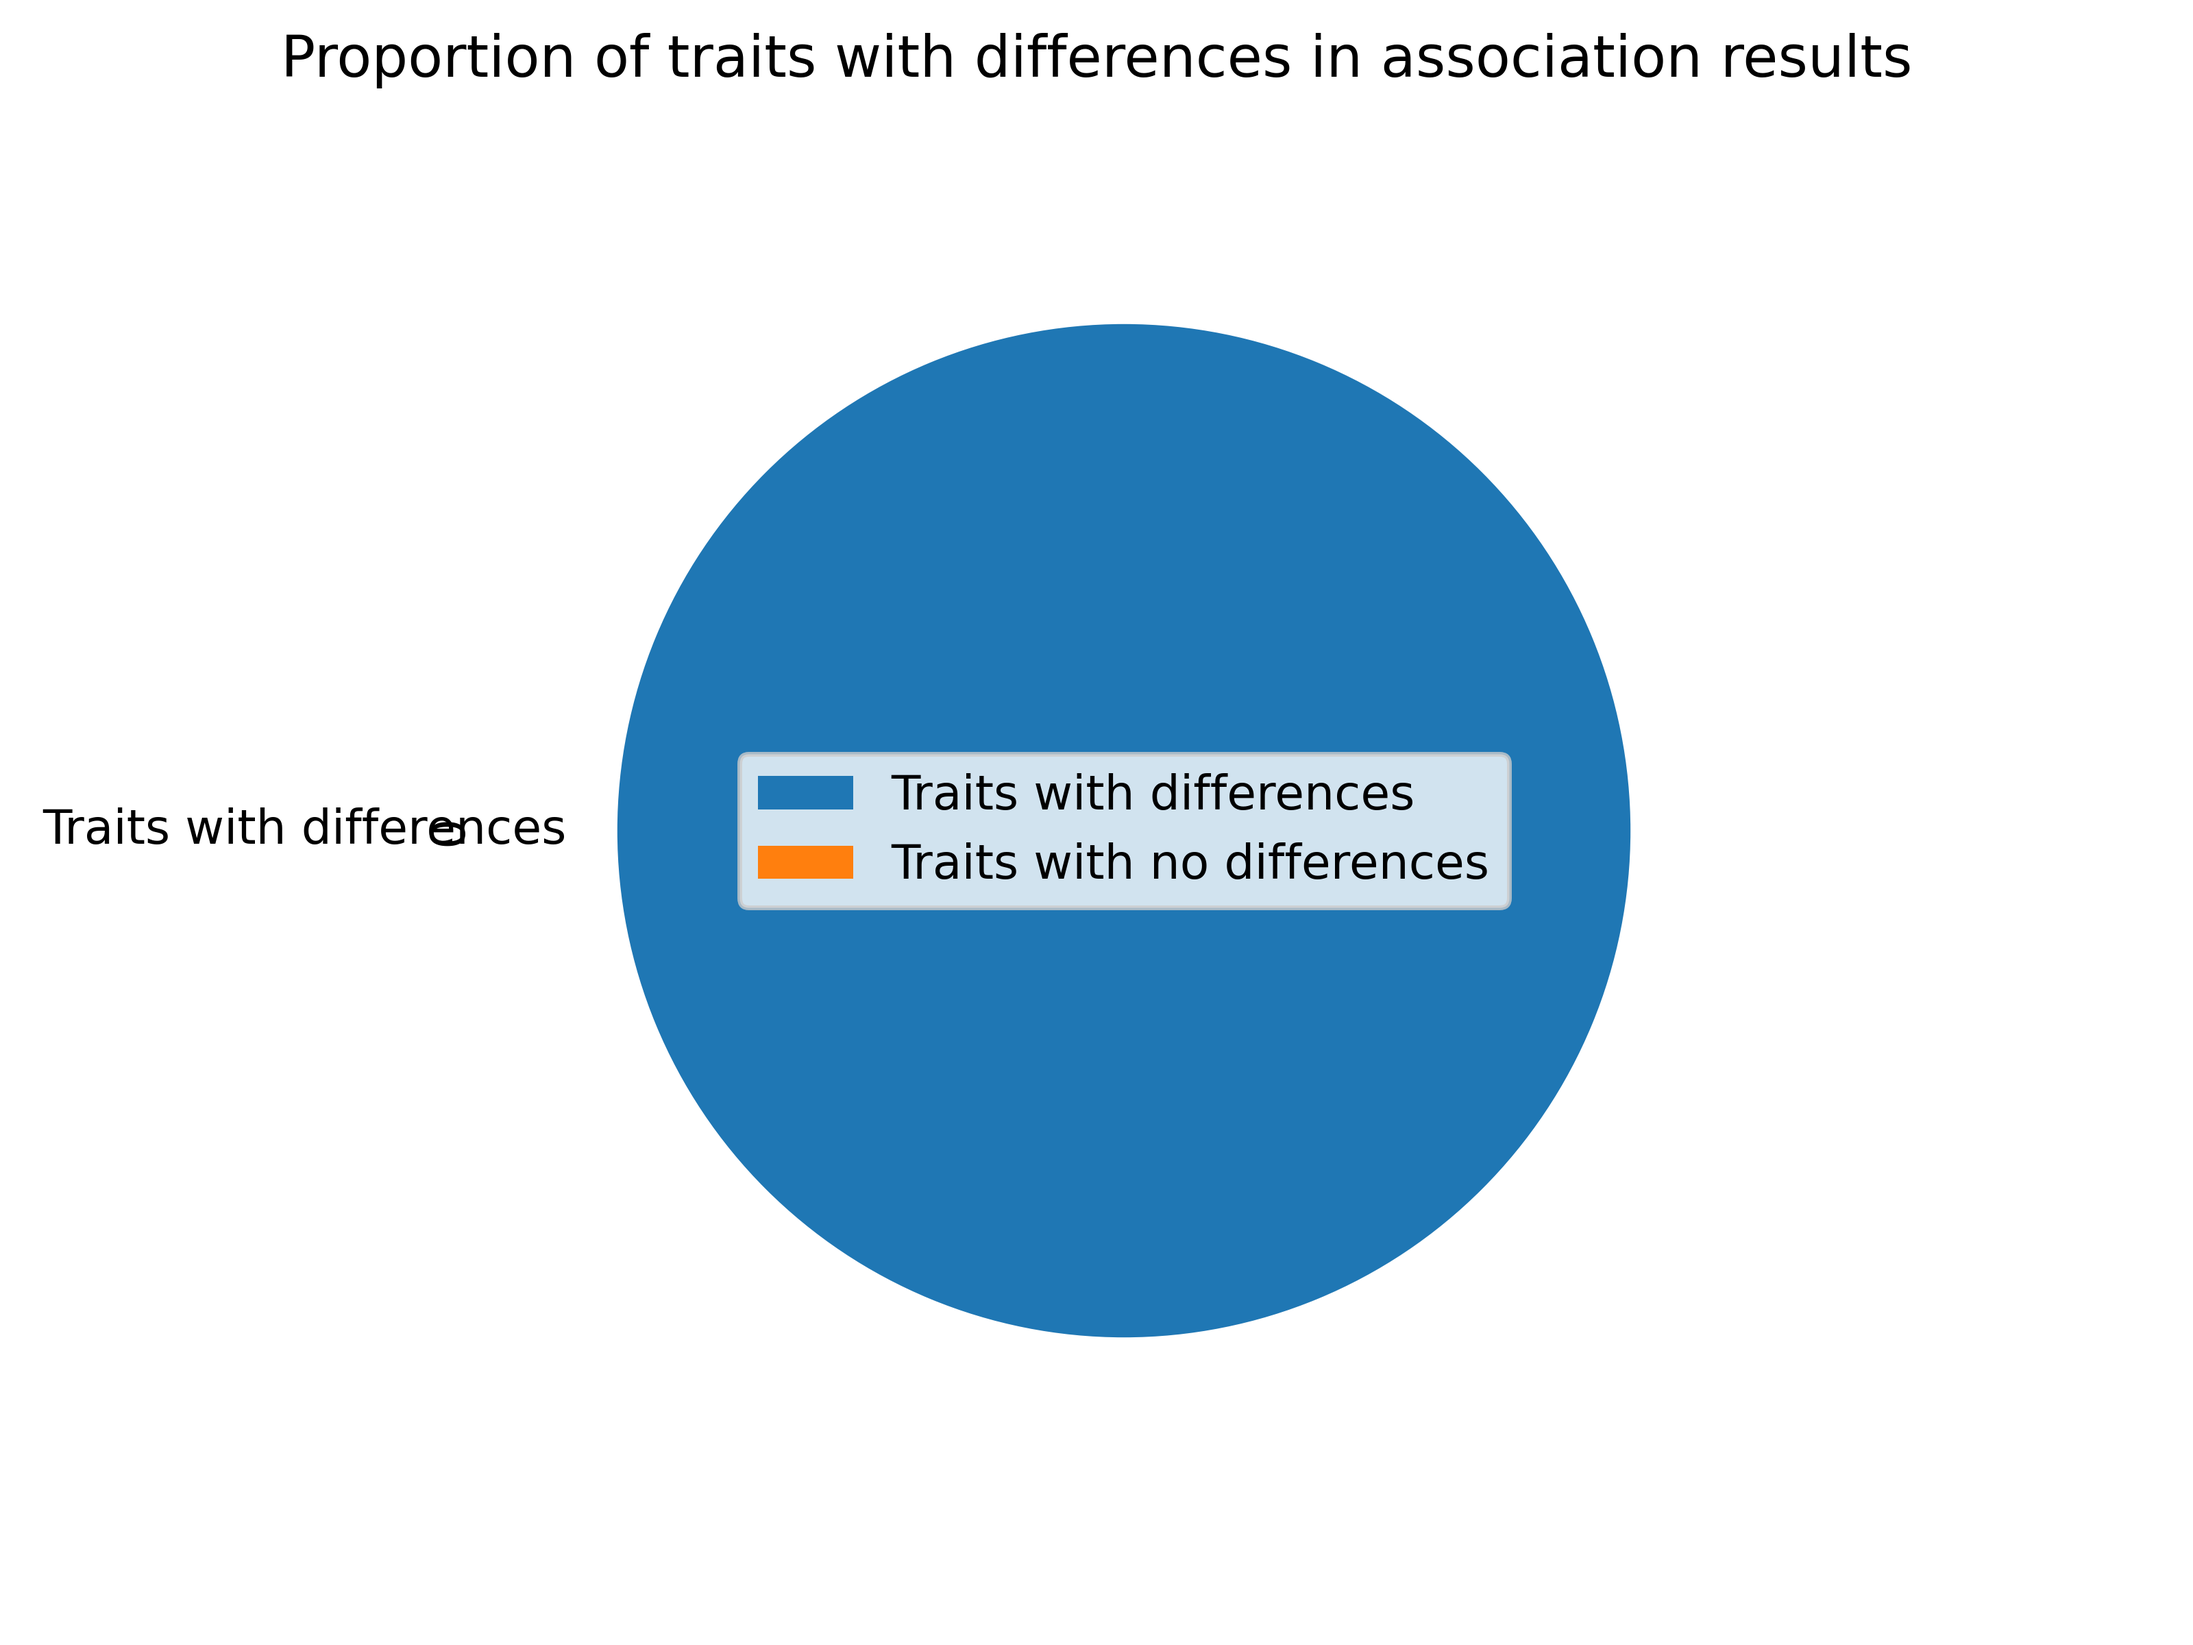
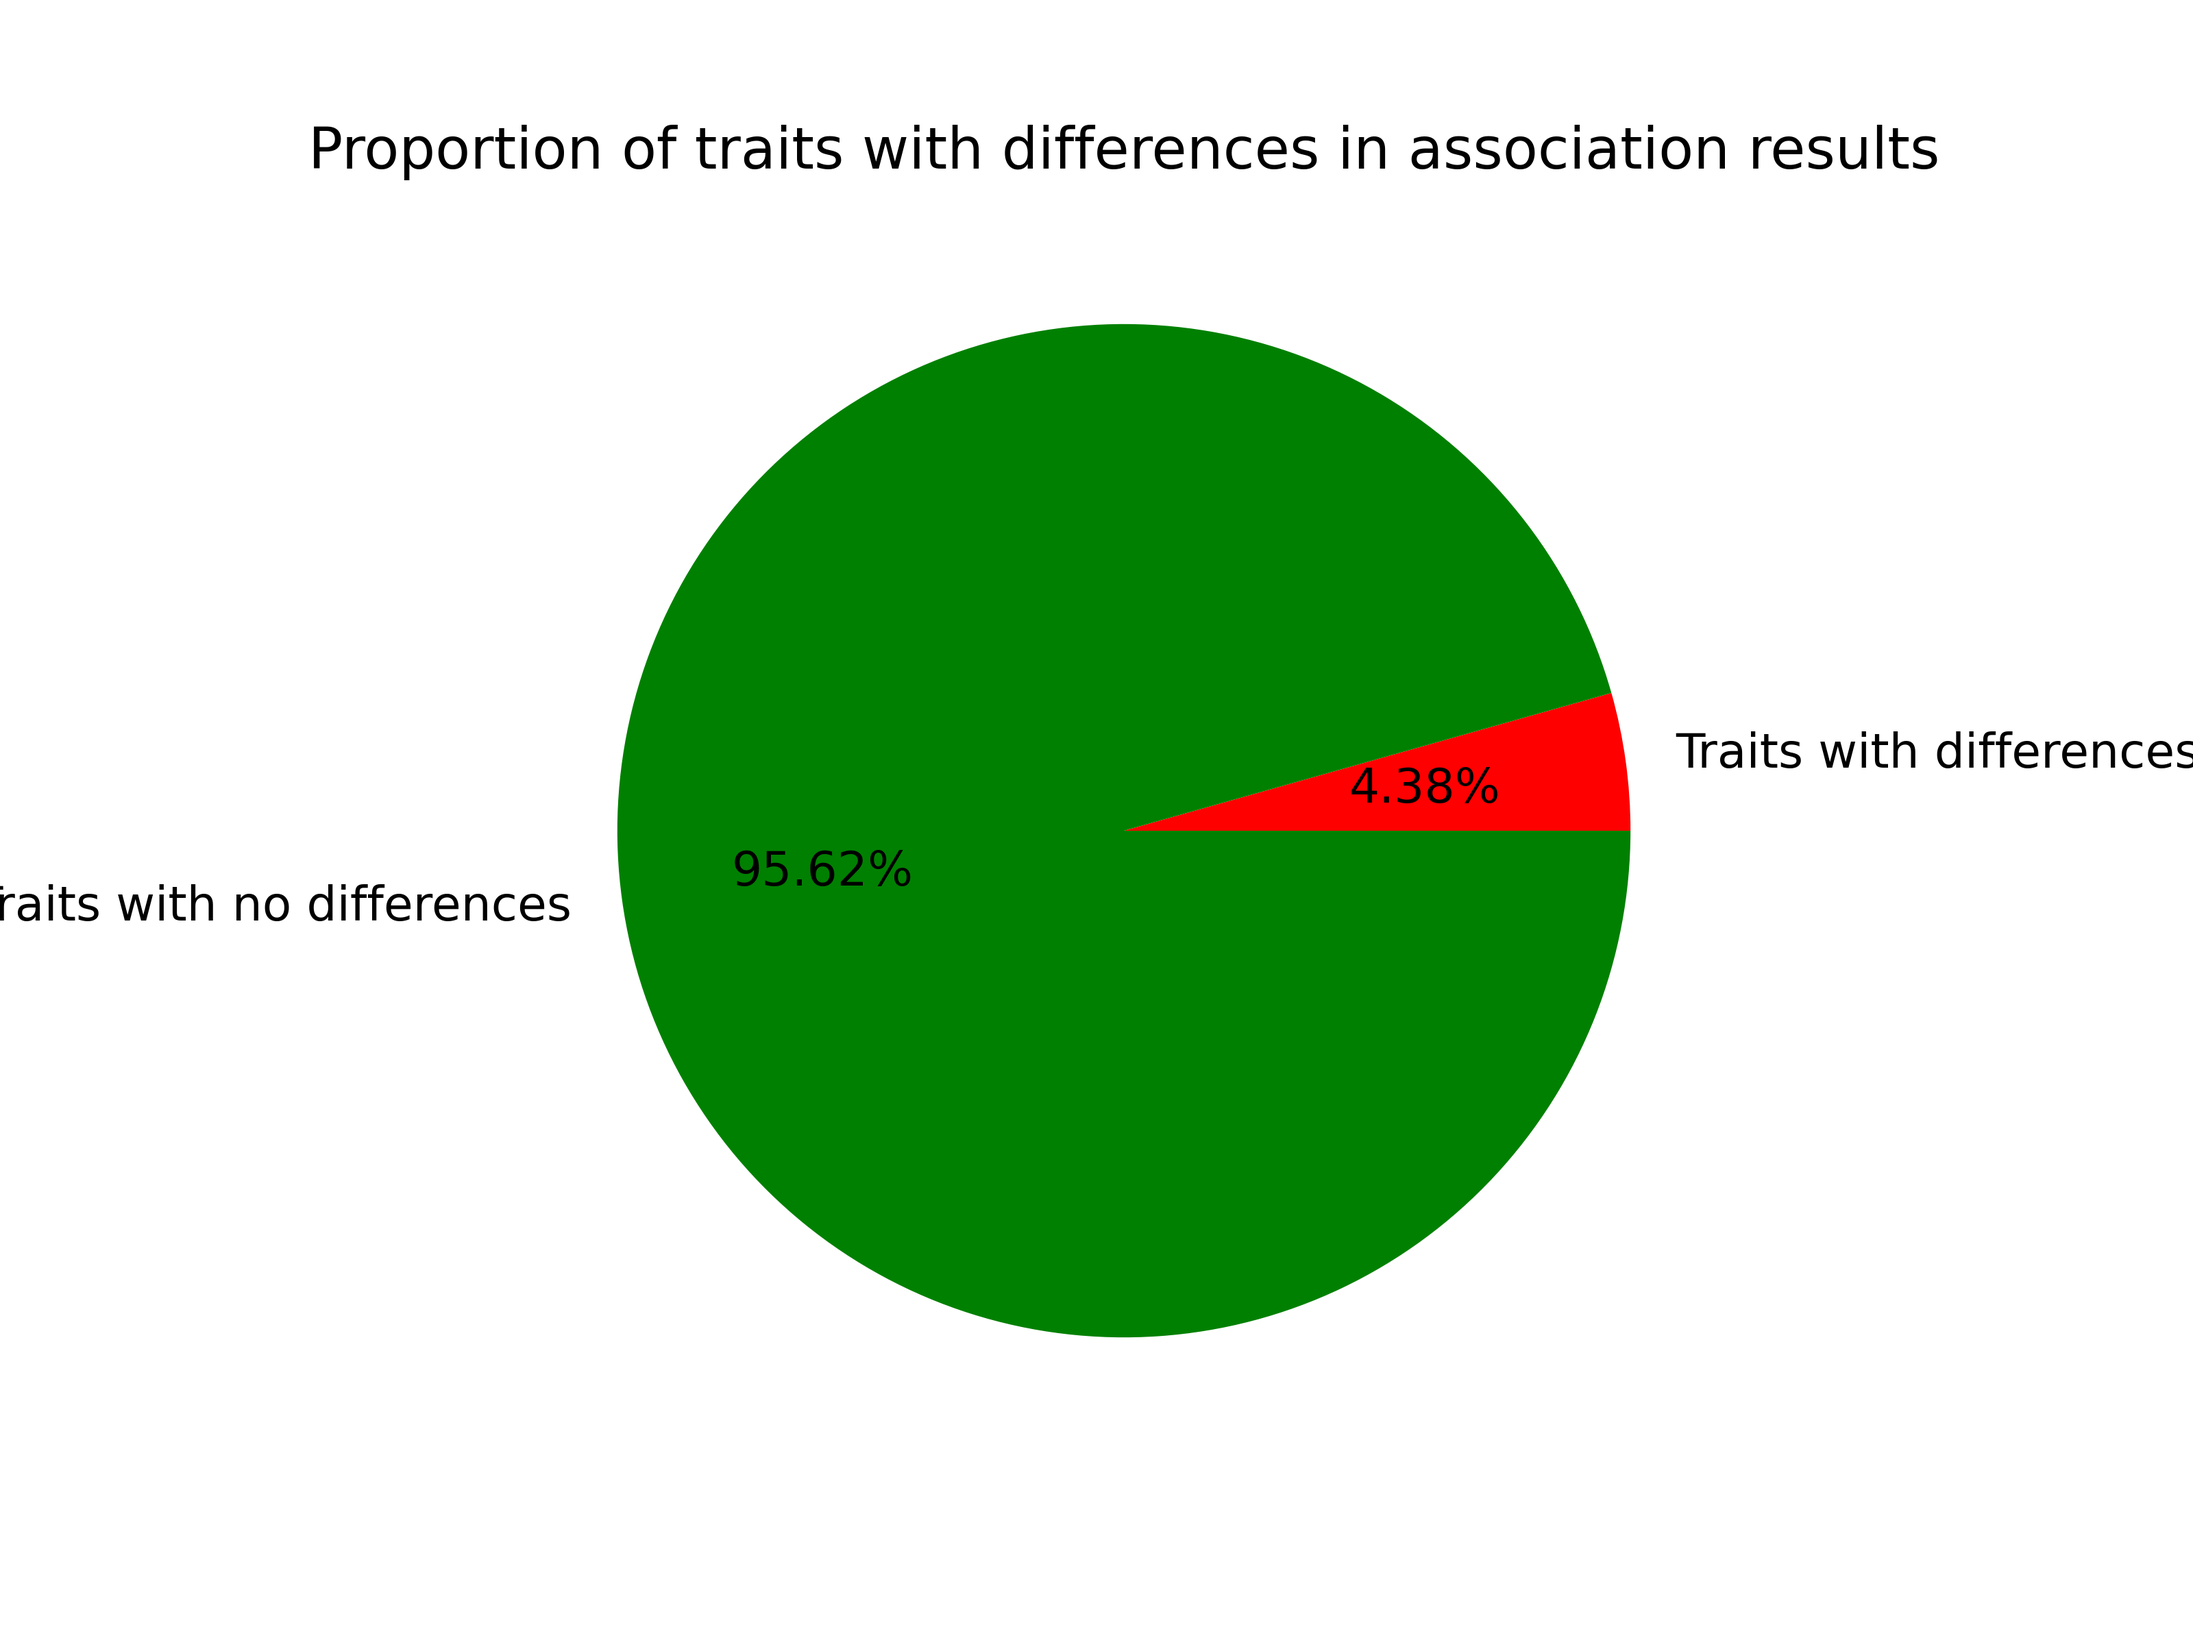
Improved compare_assoc_files_same trait and demo results generated

Changed region(s): [[0.2812, 0.1875, 1.0, 0.8125], [0.125, 0.0, 0.875, 0.125], [0.0, 0.4688, 0.25, 0.5625]]

diff --git a/scripts/stats_analysis/compare_assoc_files_same_trait.py b/scripts/stats_analysis/compare_assoc_files_same_trait.py
@@ -9,7 +9,8 @@ Assuming they are identical, compare the p-values
 
 # Read association info
 
-f=open('../../../../project_dataset_all_traits_with_desc_full_desc.csv')
+#f=open('../../../../project_dataset_all_traits_with_desc_full_desc.csv')
+f=open('../../../../chunks/chunk0.csv') # for demo
 assoc_info=f.readlines()
 f.close()
 
@@ -77,22 +78,26 @@ print('The length of results: ', len(results))
 import matplotlib.pyplot as plt
 import pandas as pd
 
-data=pd.DataFrame([len(results), len(container)-len(results)], index=['Traits with differences', 'Traits with no differences'])
+fig, ax=plt.subplots()
 
-data.plot.pie(y=0)
+data=[len(results), len(container)-len(results)]
+labels=['Traits with differences', 'Traits with no differences']
+explode=(0, 0.1)
 
-plt.suptitle('Proportion of traits with differences in association results')
+ax.pie(data, labels=labels, colors=['r', 'g'], autopct='%1.2f%%')
 
-plt.savefig('../../output/proportion_traits_with_differences.png', dpi=500)
+ax.set_title('Proportion of traits with differences in association results')
+
+fig.savefig('../../output/proportion_traits_with_differences.png', dpi=500)
 
 
 # Plot vertical bar plot of proportion of differences for all traits with differences in association results
 
-fig, ax=plt.subplots()
+fig, ax=plt.subplots(figsize=(20, 10))
 
 data=pd.DataFrame([len(results[j]) for j in results.keys()], index=[j for j in results.keys()]) # use the number of differences in each trait to determine the width of each bar
 
-data.plot.bar(ax=ax, color='black', alpha=0.7)
+data.plot.barh(ax=ax, color='black', alpha=0.7, rot=0.2)
 
 ax.set_title('Proportion of differences in association results')
 

diff --git a/scripts/stats_analysis/data_indices2association_trait2trait.py b/scripts/stats_analysis/data_indices2association_trait2trait.py
@@ -13,7 +13,8 @@ f1=open('../../../../data_indices_clusters.csv')
 f1_read=f1.readlines()
 f1.close()
 
-f2=open('../../../../project_dataset_all_traits_with_desc_full_desc.csv')
+#f2=open('../../../../project_dataset_all_traits_with_desc_full_desc.csv')
+f2=open('../../../../chunks/chunk0.csv') # for demo
 f2_read=f2.readlines()
 f2.close()
 

diff --git a/scripts/stats_analysis/data_indices2stats_traits_associated_diabetes.py b/scripts/stats_analysis/data_indices2stats_traits_associated_diabetes.py
@@ -13,7 +13,8 @@ f1=open('../../../../data_indices_clusters.csv')
 f1_read=f1.readlines()
 f1.close()
 
-f2=open('../../../../project_dataset_all_traits_with_desc_full_desc.csv')
+#f2=open('../../../../project_dataset_all_traits_with_desc_full_desc.csv')
+f2=open('../../../../chunks/chunk0.csv') # for demo
 f2_read=f2.readlines()
 f2.close()
 
